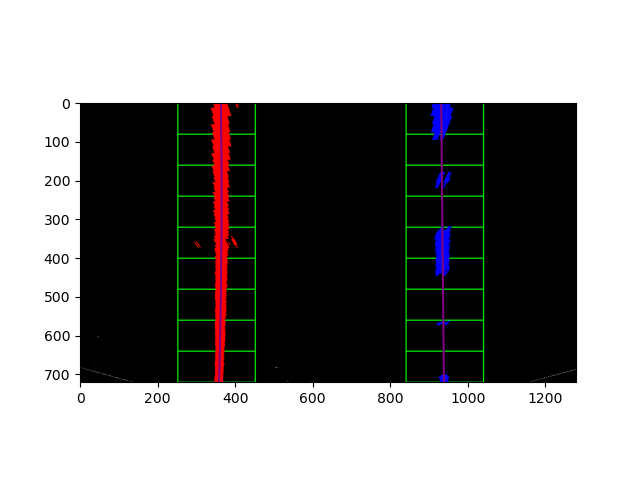
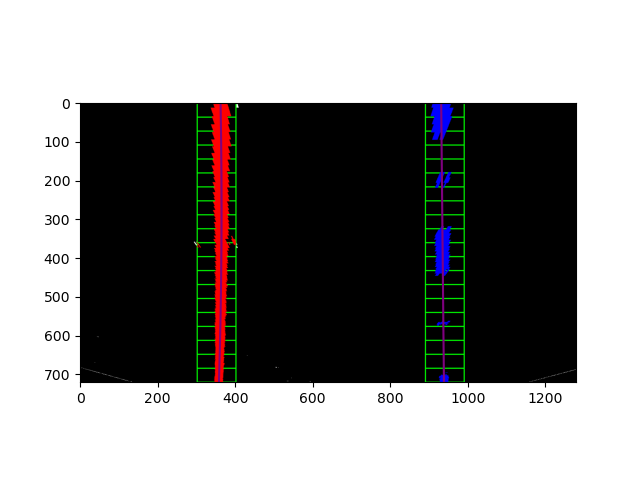
Image fixes

Changed region(s): [[0.625, 0.2188, 0.7812, 0.7812], [0.25, 0.2188, 0.4062, 0.7812]]

diff --git a/A4_Advanced_Line_Detection/Pipeline_visualizer.py b/A4_Advanced_Line_Detection/Pipeline_visualizer.py
@@ -70,8 +70,8 @@ xleft_base = np.argmax(histogram[:midpoint])
 xright_base = np.argmax(histogram[midpoint:]) + midpoint
 
 # Sliding window parameters
-windows = 9
-margin = 100
+windows = 20
+margin = 50
 minpix = 50
 winheight = np.int32(warped.shape[0]//windows)
 
@@ -110,9 +110,9 @@ for window in range(windows):
     right_ids = np.append(right_ids, win_right_ids)
 
     # Recenter windows if need be
-    if len(win_left_ids) > minpix:
+    if len(win_left_ids) < minpix:
         leftx = np.int32(np.mean(nonzerox[win_left_ids]))
-    if len(win_right_ids) > minpix:
+    if len(win_right_ids) < minpix:
         rightx = np.int32(np.mean(nonzeroy[win_right_ids]))
 
     # Concatenate the list of indices
